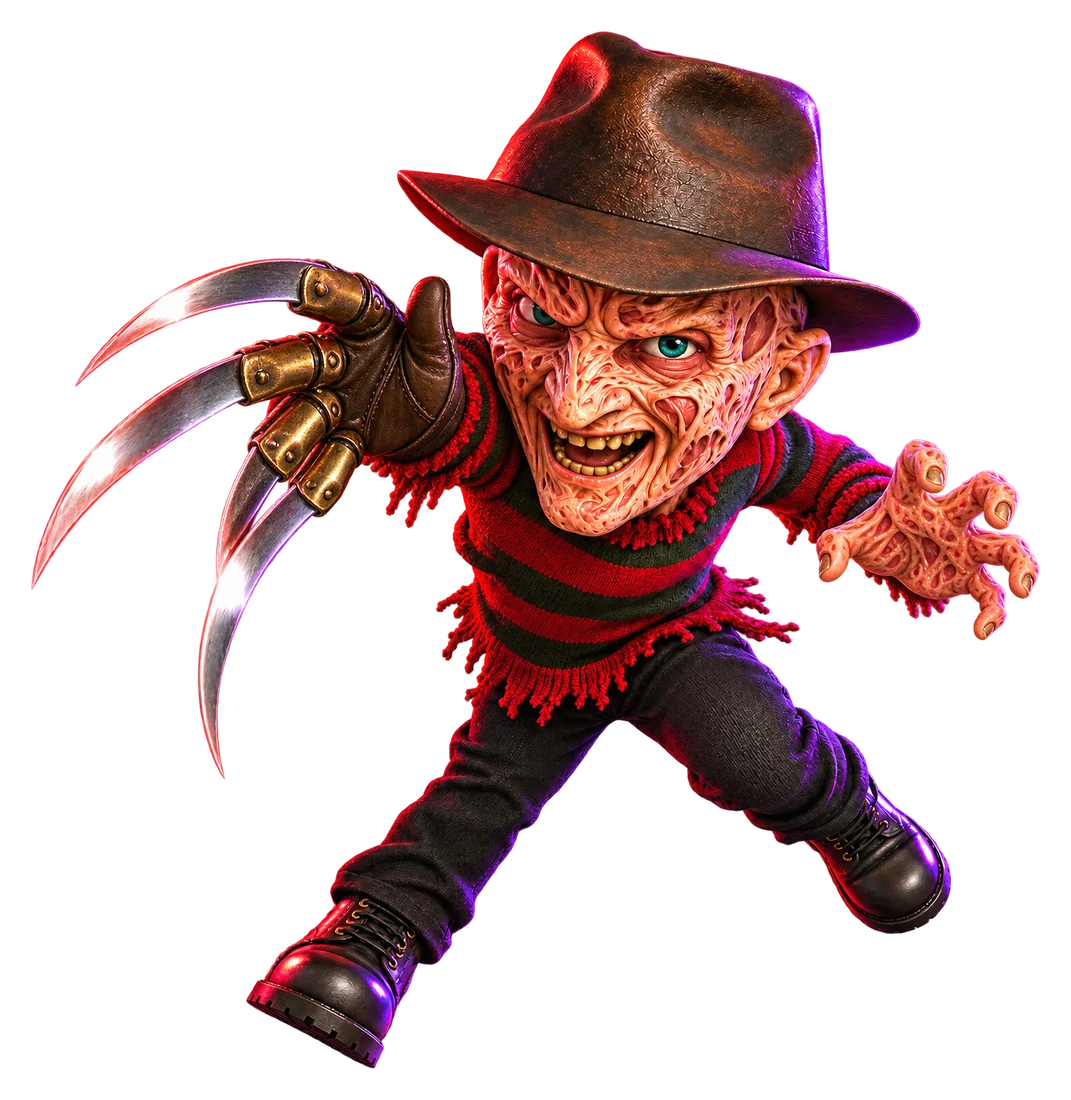
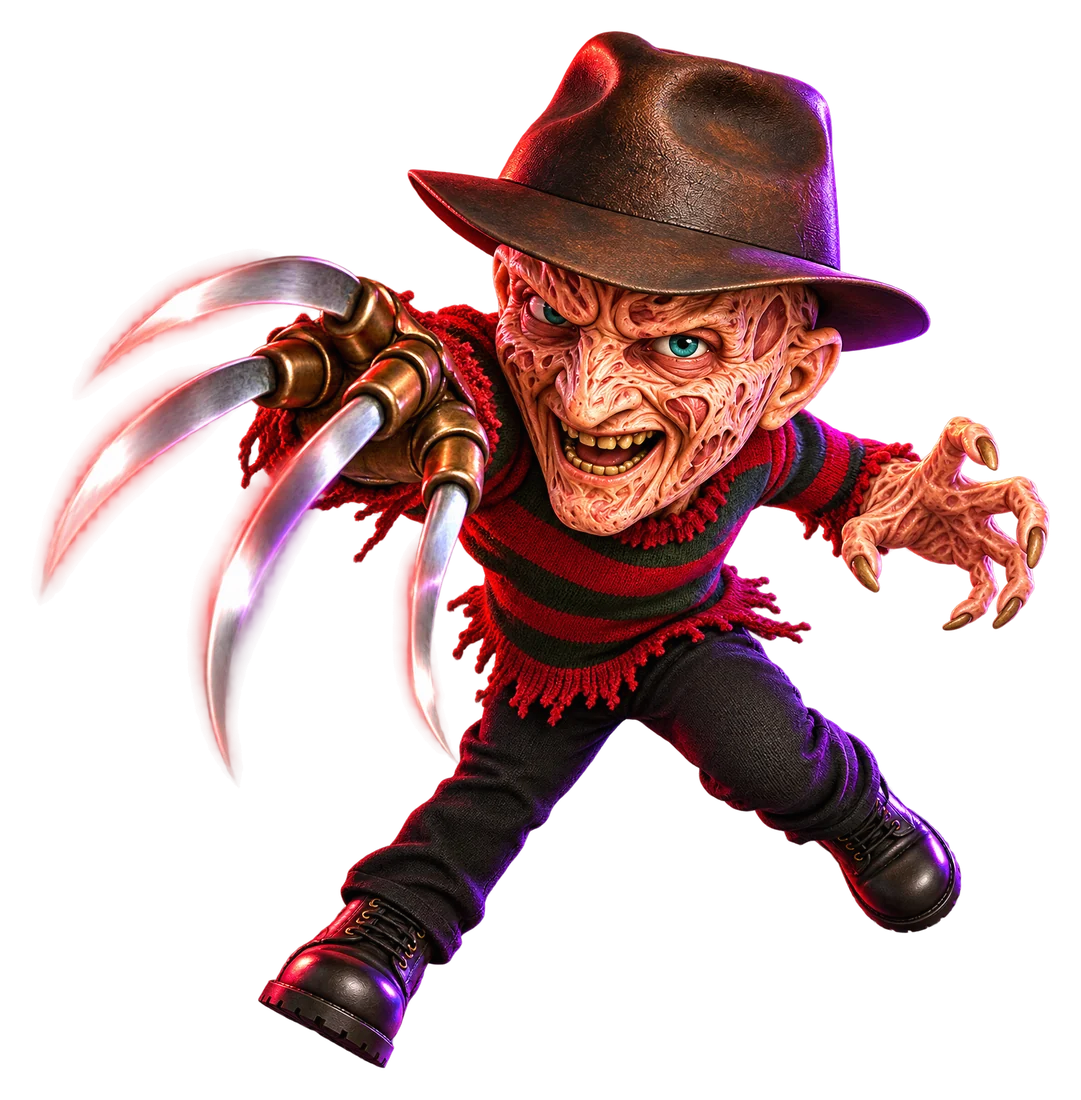
fix(art): Freddy keeps his original claw, with only the bare hand fixed
The retouched gloves all came out worse than the original, so retouch_site_art.py --merge lays just a take's bare
hand (cut across the sleeve) back onto the first pose.

Changed region(s): [[0.0308, 0.0309, 0.986, 0.9891]]

diff --git a/tools/retouch_site_art.py b/tools/retouch_site_art.py
@@ -6,7 +6,11 @@ sit exactly where the old ones did).
 Candidates go to art-work/site/<pet>-<n>.png from --start (gitignored); pick one in tools/finalize_site_art.py and
 tools/reel/cast.py. The API key is read from the OPENAI_API_KEY environment variable only.
 
+Where a take gets one hand right and the other worse than the original, --merge pastes just that hand's part of the
+take back onto the original (MERGE), which the repaint stays close enough to for the seam to vanish.
+
 Usage: OPENAI_API_KEY=... tools/.venv/bin/python -I tools/retouch_site_art.py --only freddy [--n 2] [--start 3]
+       tools/.venv/bin/python -I tools/retouch_site_art.py --merge freddy 12 --start 15
 """
 from __future__ import annotations
 
@@ -19,7 +23,7 @@ from concurrent.futures import ThreadPoolExecutor
 from pathlib import Path
 
 import requests
-from PIL import Image, ImageDraw
+from PIL import Image, ImageDraw, ImageFilter
 
 sys.path.insert(0, str(Path(__file__).resolve().parent))
 from generate_cover import API, MODEL, redact  # noqa: E402
@@ -36,11 +40,12 @@ KEEP = (
 # pet: (the pick to retouch, boxes around the hands as (left, top, right, bottom) px, what to fix)
 RETOUCH = {
     "freddy": (1, [(1190, 590, 1500, 860), (300, 330, 720, 760)],
-               "his bare, burned hand on the right side of the image, open and clawing, must have exactly five digits, "
-               "a thumb and four fingers. His bladed glove on the left side of the image is a brown leather glove with "
-               "brass finger caps: its index, middle, ring and little fingers each wear a brass cap ending in one long "
-               "curved steel blade, so exactly four caps and exactly four blades fanning out, and its thumb is a plain "
-               "brown leather thumb, clearly separate from the fingers, with no cap and no blade."),
+               "his bare, burned hand on the right side of the image keeps its exact clawing gesture, angle and long, "
+               "slender, bony fingers, but has exactly five digits: a thumb and four fingers, add the missing finger. "
+               "His bladed glove on the left side of the image keeps its four long, sweeping, glowing curved blades "
+               "exactly as they are now (same length, curve, spacing and shine) and its four brass knuckle caps, one "
+               "blade off each of the four fingers; add only his thumb, a plain brown leather glove thumb with no "
+               "blade and no cap, tucked beside the fingers on the glove's near side, clearly visible."),
     "ghostface": (1, [(1000, 730, 1460, 1070)],
                   "his open, reaching black-gloved hand on the right side of the image must have exactly five digits, "
                   "a thumb and four fingers, splayed and grasping toward the viewer."),
@@ -48,6 +53,11 @@ RETOUCH = {
                 "both of his pale open hands must have exactly five digits each, a thumb and four fingers, elegant and "
                 "relaxed with the palms open toward the viewer, the same pose as now."),
 }
+# pet: (the take's part to keep, as (left, top, right, bottom) px, cut across the sleeve, where both look alike)
+MERGE = {
+    "freddy": (1150, 540, 1536, 920),  # his bare hand, keeping the original's bladed glove
+}
+FEATHER = 12  # px the merged part blends into the original over
 
 
 def mask(size: tuple[int, int], boxes: list[tuple[int, int, int, int]]) -> Image.Image:
@@ -81,12 +91,33 @@ def retouch(key: str, pet: str, k: int) -> Path:
     return dest
 
 
+def merge(pet: str, take: int, k: int) -> Path:
+    """[pet]'s original pick with [take]'s MERGE part laid over it, feathered in, as candidate [k]."""
+    original = Image.open(SRC / f"{pet}-{RETOUCH[pet][0]}.png").convert("RGBA")
+    painted = Image.open(SRC / f"{pet}-{take}.png").convert("RGBA")
+    m = Image.new("L", original.size, 0)
+    l, t, r, b = MERGE[pet]
+    ImageDraw.Draw(m).rectangle([l, t, r, b], fill=255)
+    out = Image.composite(painted, original, m.filter(ImageFilter.GaussianBlur(FEATHER)))
+    dest = SRC / f"{pet}-{k}.png"
+    out.save(dest)
+    return dest
+
+
 def main() -> int:
     ap = argparse.ArgumentParser()
     ap.add_argument("--only", action="append", choices=list(RETOUCH))
     ap.add_argument("--n", type=int, default=2, help="candidates of each")
     ap.add_argument("--start", type=int, default=3, help="first candidate number (past the picks, so none is overwritten)")
+    ap.add_argument("--merge", nargs=2, metavar=("PET", "TAKE"), help="lay TAKE's MERGE part over PET's original")
     args = ap.parse_args()
+    if args.merge:
+        pet, take = args.merge[0], int(args.merge[1])
+        if (SRC / f"{pet}-{args.start}.png").exists():
+            print(f"{pet}-{args.start}.png already exists; pass a later --start", file=sys.stderr)
+            return 2
+        print(f"wrote {merge(pet, take, args.start).relative_to(ROOT)}")
+        return 0
     key = os.environ.get("OPENAI_API_KEY")
     if not key:
         print("OPENAI_API_KEY is not set", file=sys.stderr)

diff --git a/tools/reel/cast.py b/tools/reel/cast.py
@@ -16,7 +16,7 @@ ROOT = Path(__file__).resolve().parents[2]
 
 # The landing page's picks (tools/finalize_site_art.py), but for Chucky a redo with his arms clear of his chin and a
 # whole knife (tools/generate_site_art.py): the full-size render when it is here, else the site's copy.
-POSE_PICKS = {"jason": 1, "freddy": 7, "pinhead": 3, "ghostface": 3, "chucky": 2, "michael": 1, "leatherface": 1}
+POSE_PICKS = {"jason": 1, "freddy": 15, "pinhead": 3, "ghostface": 3, "chucky": 2, "michael": 1, "leatherface": 1}
 
 
 @dataclass(frozen=True)

diff --git a/tools/finalize_site_art.py b/tools/finalize_site_art.py
@@ -18,7 +18,7 @@ from finalize_food import ALPHA_FLOOR, MARGIN  # noqa: E402
 ROOT = Path(__file__).resolve().parents[1]
 SRC = ROOT / "art-work/site"
 OUT = ROOT / "site/art"
-PICKS = {"backdrop": 2, "jason": 1, "freddy": 7, "pinhead": 3, "ghostface": 3, "chucky": 2, "michael": 1, "leatherface": 1}
+PICKS = {"backdrop": 2, "jason": 1, "freddy": 15, "pinhead": 3, "ghostface": 3, "chucky": 2, "michael": 1, "leatherface": 1}
 KILLER_SIZE = 1100
 BACKDROP_WIDTH = 2560
 
